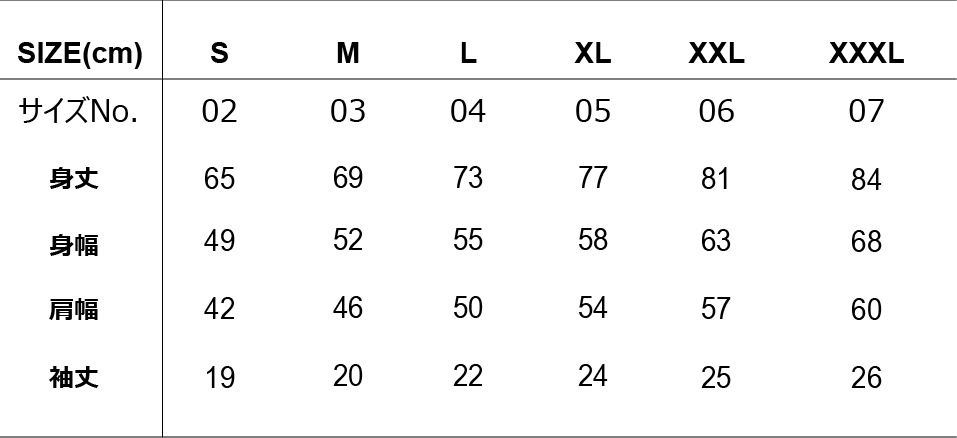
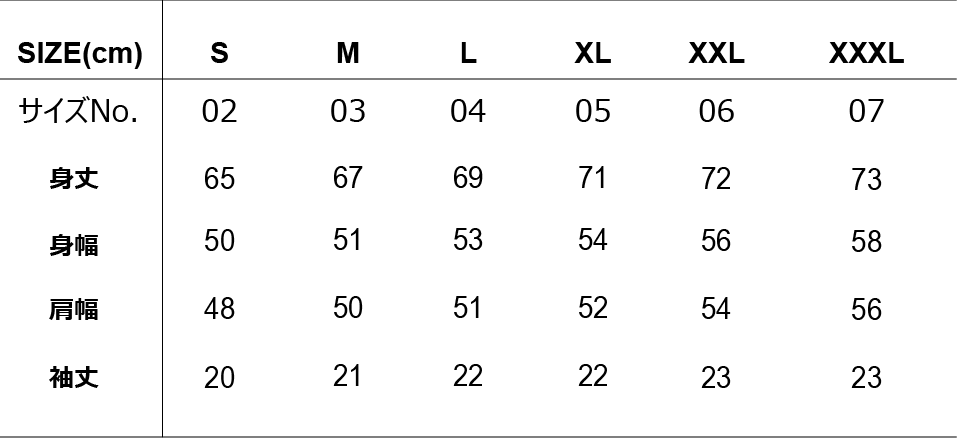
第9商品-20260925: A001(id8)置顶显示/编号按导航顺序/A002改名/2号格双链接

diff --git a/app/product-details/page.tsx b/app/product-details/page.tsx
@@ -29,7 +29,7 @@ const PRODUCT_DESCRIPTIONS: Record<number, string> = {
 ・上質なコットン100%：肌に優しく馴染む、柔らかく滑らかなプレミアムな肌触り。
 ・優れた通気性と快適性：長時間着用しても蒸れにくく、シーズンを問わずストレスフリーな着心地を提供します。
 ■ 生地感（THICKNESS & WEIGHT）
-・6.7oz（オンス）ヘビーウェイト：しっかりとした肉厚感のある生地を採用。
+・5.0oz（オンス）ヘビーウェイト：しっかりとした肉厚感のある生地を採用。
 ・高い耐久性と透け防止：1枚で着用しても透けにくく、度重なる洗濯でも型崩れしにくいタフな仕上がりです。
 ■ デザイン＆シルエット（DESIGN & SILHOUETTE）
 ・タイムレスなミニマルデザイン：テイストを選ばず、ストリート、カジュアル、きれいめまで幅広くコーディネート可能。
@@ -74,17 +74,17 @@ const PRODUCT_DESCRIPTIONS: Record<number, string> = {
 ※ご覧いただくモニター環境や光の加減により、掲載画像と実際の商品で色味が若干異なる場合がございます。
 `,
   2: `【コンセプト】
-イージーケアと上質な着心地を両立。
+極上の肌触りと、美しいシルエット。
 1枚でもインナーでも決まる、洗練された大人のロングスリーブTシャツ。
-コットンの柔らかさとポリエステルの機能性を兼ね備えたハイブリッド素材を採用。7.0ozのしっかりとした生地感で、秋口から春先までロングシーズン快適に着用できる万能な定番アイテムです。
+厳選された上質なコットンを100%使用。7.0ozのしっかりとしたヘビーウェイトな生地感で、秋口から春先までロングシーズン快適に着用できる万能な定番アイテムです。
 
 【DETAIL】
 ■ 素材（FABRIC）
-・T/C（ポリエステル60% / コットン40%）混紡素材：肌触りの良いコットンの風合いを残しながら、ポリエステルの耐久性と軽量性をプラス。
-・優れた吸汗速乾性とイージーケア：通気性が高く、長時間の着用でもサラリとした快適な着心地をキープ。洗濯後も乾きやすく、シワになりにくいイージーケア仕様です。
+・上質なコットン100%：厳選された高品質コットンを使用し、肌に優しく馴染む柔らかく滑らかなプレミアムな肌触りを実現。
+・優れた通気性と快適性：天然素材ならではの高い吸湿性と通気性で、長時間の着用でも蒸れにくく、シーズンを問わずストレスフリーな着心地を提供します。
 ■ 生地感（THICKNESS & WEIGHT）
-・7.0oz（オンス）ヘビーウェイト：長袖Tシャツに最適な、程よい肉厚感とハリのある生地を採用。
-・優れた耐久性と透け防止：1枚で着用しても透けにくく、度重なる洗濯でも襟元や袖口がヨレにくいタフな仕上がりです。
+・7.0oz（オンス）ヘビーウェイト：長袖Tシャツに最適な、程よい肉厚感とハリのある高密度生地を採用。
+・優れた耐久性と透け防止：1枚で着用しても透けにくく、度重なる着用や洗濯でも襟元や袖口がヨレにくいタフな仕上がりです。
 ■ デザイン＆シルエット（DESIGN & SILHOUETTE）
 ・ミニマルな洗練デザイン：タイムレスなデザインで、ストリート、カジュアル、きれいめスタイルのインナーまで幅広く対応。
 ・ジェンダーレスなリラックスフィット：肩や身幅にほどよいゆとりを持たせたトレンドシルエットで、男女問わずスマートに着用いただけます。
@@ -103,15 +103,15 @@ const PRODUCT_DESCRIPTIONS: Record<number, string> = {
   3: `【コンセプト】
 ブランド最高峰の品質と、計算し尽くされたオーバーシルエット。
 1枚でスタイルを格上げする、プレミアム・ヘビーウェイトTシャツ。
-当ラインナップの中で最高品質を誇る、こだわりを凝縮したフラッグシップモデル。8.1ozという圧巻の超ヘビーウェイト生地を採用しながらも、野暮ったさを一切感じさせない上品なハリ感と美しいドレープ（落ち感）を実現。圧倒的な存在感を放つ、大人のための最高峰の1着です。
+当ラインナップの中で最高品質を誇る、こだわりを凝縮したフラッグシップモデル。230g高密度ヘビーウェイトコットン生地を採用しながらも、野暮ったさを一切感じさせない上品なハリ感と美しいドレープ（落ち感）を実現。圧倒的な存在感を放つ、大人のための最高峰の1着です。
 
 【DETAIL】
 ■ 素材（PREMIUM FABRIC）
-・厳選 T/Cハイブリッド素材（ポリエステル60% / コットン40%）：コットンの肌触りの良さにポリエステルの機能性を融合。8.1ozの重厚感を感じさせない滑らかな肌触りと高級感のある風合いに仕上げました。
-・優れた速乾性とイージーケア：シワになりにくく、洗濯後の乾きも早いハイパフォーマンス仕様。通気性にも優れ、終日快適な着用感をキープします。
+・厳選された100%プレミアムコットン：厳選された高品質コットンを100%使用。天然素材ならではの滑らかで肌に吸い付くような上質な肌触りと、着込むほどに馴染む極上の風合いに仕上げました。
+・優れた通気性と快適性：高密度でありながら通気性に優れ、肌への刺激が少ないストレスフリーな仕様。シーズンを問わず終日快適な着用感をキープします。
 ■ 生地感（THICKNESS & WEIGHT）
-・8.1oz（オンス）最高峰超ヘビーウェイト：極限まで肉厚感を高めた8.1オンス生地。体のラインを拾わない美しい立ち姿をキープします。
-・完全透け防止＆抜群のタフネス：1枚での着用も安心の透け感ゼロ。度重なる着用や洗濯でも首元がヨレず、美しいシルエットが長く続きます。
+・230g/㎡ 最高峰ヘビーウェイト：極限まで密度を高めた230g/㎡の肉厚コットン生地。しっかりとしたハリとコシがあり、体のラインを拾わない美しい立ち姿をキープします。
+・完全透け防止＆抜群のタフネス：1枚での着用も安心の透け感ゼロ。度重なる着用や洗濯でも首元がヨレにくく、美しいシルエットが長く続きます。
 ■ デザイン＆シルエット（DESIGN & SILHOUETTE）
 ・洗練された絶妙なビッグシルエット：肩を大きく落としたドロップショルダーと身幅に贅沢なゆとりを持たせたカッティング。リラックス感がありながらも品のある仕上がりです。
 ・ジェンダーレスデザイン：ストリート、モード、カジュアルまで、男女問わず1枚でトレンド感のあるスタイリングが完成します。
@@ -237,13 +237,40 @@ const PRODUCT_DESCRIPTIONS: Record<number, string> = {
 ■ 注意事項
 ※ご覧いただくモニター環境や光の加減により、掲載画像と実際の商品で色味が若干異なる場合がございます。
 `,
+  8: `【コンセプト】
+王道を極めた、毎日着たくなる着心地。
+5.6ozの絶妙な生地感で、オールシーズン活躍する万能スタンダードTシャツ。
+厳選された上質なコットン100%を使用し、Tシャツの“黄金スペック”と呼ばれる5.6オンス生地を採用。厚すぎず薄すぎない絶妙なバランスで、1枚での着用はもちろん、シャツやアウターのインナーとしても美しいシルエットをキープする、ワードローブに欠かせない定番の1着です。
+
+【DETAIL】
+■ 素材（FABRIC）
+・上質なコットン100%：肌に優しく馴染む、柔らかく滑らかなプレミアムな肌触り。
+・優れた通気性と快適性：吸湿性・通気性に優れ、長時間の着用でもストレスフリーで快適な着心地を提供します。
+■ 生地感（THICKNESS & WEIGHT）
+・5.6oz（オンス）スタンダードウェイト：1枚着としてもインナーとしても重宝する、バランスの取れた絶妙な肉厚感。
+・型崩れしにくい高耐久仕様：適度なハリ感があり、度重なる着用や洗濯でも首元がヨレにくく、綺麗なフォルムを長く保ちます。
+■ デザイン＆シルエット（DESIGN & SILHOUETTE）
+・タイムレスな王道デザイン：トレンドや年代を問わず、ストリート、カジュアル、きれいめまであらゆるスタイルに対応。
+・ユニセックスデザイン：SからXXLまでの豊富なサイズ展開で、ジャストサイズでのスマートな着こなしから、ワンサイズ上げたリラックススタイルまでお好みのシルエットを選べます。
+■ カラーバリエーション（COLOR）
+スタイリングのベースとなる、最も汎用性の高い王道の2色展開。
+・ホワイト
+・ブラック
+
+【SIZE & INFORMATION】
+■ サイズ展開（SIZE）
+S / M / L / XL / XXL
+※ユニセックスでお使いいただけるベーシックなシルエットです。
+※商品寸法は手作業で採寸しているため、1〜2cm程度の個体差が生じる場合がございます。予めご了承ください。
+■ 注意事項
+※ご覧いただくモニター環境や光の加減により、掲載画像と実際の商品で色味が若干異なる場合がございます。`,
 }
 
 // 与 page.tsx 中 6 个商品分类对应的选项卡数据
 const PRODUCT_TABS: ProductTab[] = [
   {
     id: 0,
-    name: 'ベーシックTシャツ',
+    name: 'ベーシックTシャツA002',
     colors: ['ホワイト', 'ブラック', 'アプリコット', 'ピンク', 'グレー', 'ネイビー', 'ピンクグラデーション', 'ブルーグラデーション', 'グリーングラデーション'],
     imagesByColor: {
       ホワイト: ['/01duant/wc11.png', '/01duant/wc1.png', '/01duant/wc2.png', '/01duant/wc3.png'],
@@ -329,12 +356,25 @@ const PRODUCT_TABS: ProductTab[] = [
     },
     bottomImage: '/08bao2/youdi1.jpg',
   },
+  {
+    id: 8,
+    name: 'ベーシックTシャツA001',
+    colors: ['ホワイト', 'ブラック'],
+    imagesByColor: {
+      ホワイト: ['/09duant02/001/01/01.jpg', '/09duant02/001/01/02.jpg', '/09duant02/001/01/03.jpg', '/09duant02/001/01/04.jpg', '/09duant02/001/01/05.jpg', '/09duant02/001/01/06.jpg'],
+      ブラック: ['/09duant02/001/02/01.jpg', '/09duant02/001/02/02.jpg', '/09duant02/001/02/03.jpg', '/09duant02/001/02/04.jpg', '/09duant02/001/02/05.jpg', '/09duant02/001/02/06.jpg'],
+    },
+    bottomImage: '/09duant02/001/01/01.jpg',
+  },
 ]
+
+// 选项卡显示顺序：第9商品（id 8）排第一，其余按原编号
+const DISPLAY_ORDER = [8, 0, 1, 2, 3, 4, 5, 6, 7]
 
 function ProductDetailsContent() {
   const searchParams = useSearchParams()
   const tabParam = searchParams.get('tab')
-  const initialTab = tabParam !== null ? Math.min(Math.max(0, parseInt(tabParam, 10)), PRODUCT_TABS.length - 1) : 0
+  const initialTab = tabParam !== null ? Math.min(Math.max(0, parseInt(tabParam, 10)), PRODUCT_TABS.length - 1) : DISPLAY_ORDER[0]
   const router = useRouter()
 
   const [activeTab, setActiveTab] = useState(initialTab)
@@ -343,12 +383,12 @@ function ProductDetailsContent() {
   const [isDescriptionExpanded, setIsDescriptionExpanded] = useState(false)
 
   useEffect(() => {
-    const t = tabParam !== null ? Math.min(Math.max(0, parseInt(tabParam, 10)), PRODUCT_TABS.length - 1) : 0
+    const t = tabParam !== null ? Math.min(Math.max(0, parseInt(tabParam, 10)), PRODUCT_TABS.length - 1) : DISPLAY_ORDER[0]
     setActiveTab(t)
   }, [tabParam])
 
-  // 新版布局配置：各商品 001 目录、颜色数（01～NN 文件夹与色卡 inc/01～NN 对应）、尺码表
-  const NEW_LAYOUT: Record<number, { base: string; colorCount: number; chima: string }> = {
+  // 新版布局配置：各商品 001 目录、颜色数（01～NN 文件夹与色卡 inc/01～NN 对应）、尺码表、展示图扩展名
+  const NEW_LAYOUT: Record<number, { base: string; colorCount: number; chima: string; ext?: string }> = {
     0: { base: '/01duant/001', colorCount: 9, chima: '/01duant/001/chima.png' },
     1: { base: '/02shuixi/001', colorCount: 1, chima: '/02shuixi/001/chima.png' },
     2: { base: '/03changxiut/001', colorCount: 2, chima: '/03changxiut/001/chima.png' },
@@ -357,6 +397,7 @@ function ProductDetailsContent() {
     5: { base: '/06daimaoweiyi/001', colorCount: 2, chima: '/06daimaoweiyi/001/chima.png' },
     6: { base: '/07bao1/001', colorCount: 1, chima: '/07bao1/001/chima.jpg' },
     7: { base: '/08bao2/001', colorCount: 1, chima: '/08bao2/001/chima.jpg' },
+    8: { base: '/09duant02/001', colorCount: 2, chima: '/09duant02/001/chima.png', ext: 'jpg' },
   }
   const layoutCfg = NEW_LAYOUT[activeTab]
   const layoutColors = PRODUCT_TABS[activeTab].colors.slice(0, layoutCfg.colorCount)
@@ -364,7 +405,7 @@ function ProductDetailsContent() {
   const layoutFolder = String(layoutColorIdx + 1).padStart(2, '0')
   const layoutSizes = getCatalogProduct(activeTab).sizes
   const pad2 = (n: number) => String(n).padStart(2, '0')
-  const categoryLabel = activeTab <= 5 ? 'T-SHIRTS' : 'TOTE BAG'
+  const categoryLabel = activeTab === 6 || activeTab === 7 ? 'TOTE BAG' : 'T-SHIRTS'
 
   // 切换商品时，尺寸回到该商品的第一个尺码，颜色回到该商品新布局的第一个颜色
   useEffect(() => {
@@ -399,7 +440,9 @@ function ProductDetailsContent() {
               gap: '6px',
             }}
           >
-            {PRODUCT_TABS.map((tab) => (
+            {DISPLAY_ORDER.map((id) => {
+              const tab = PRODUCT_TABS[id]
+              return (
               <Link key={tab.id} href={`/product-details?tab=${tab.id}`} onClick={() => setActiveTab(tab.id)}>
                 <button
                   type="button"
@@ -416,7 +459,8 @@ function ProductDetailsContent() {
                   {tab.name}
                 </button>
               </Link>
-            ))}
+              )
+            })}
           </div>
         </div>
 
@@ -430,7 +474,7 @@ function ProductDetailsContent() {
                 {[1, 2, 3, 4, 5, 6].map((n) => (
                   <img
                     key={n}
-                    src={`${layoutCfg.base}/${layoutFolder}/0${n}.png`}
+                    src={`${layoutCfg.base}/${layoutFolder}/0${n}.${layoutCfg.ext ?? 'png'}`}
                     alt={`${product.name} ${selectedColor} ${n}`}
                     style={{ width: '100%', height: 'auto', display: 'block' }}
                   />
@@ -438,7 +482,7 @@ function ProductDetailsContent() {
               </div>
               {/* 右侧详情 */}
               <div style={{ flex: 1, minWidth: 0 }}>
-                <div style={{ fontSize: '14px', color: '#333' }}>{pad2(activeTab + 1)} / {pad2(PRODUCT_TABS.length)}</div>
+                <div style={{ fontSize: '14px', color: '#333' }}>{pad2(DISPLAY_ORDER.indexOf(activeTab) + 1)} / {pad2(PRODUCT_TABS.length)}</div>
                 <div style={{ height: '16px' }} />
                 <div style={{ fontSize: '12px', letterSpacing: '2px', color: '#666' }}>{categoryLabel}</div>
                 <div style={{ fontSize: '28px', fontWeight: 700, color: '#111', marginTop: '8px', marginBottom: '16px' }}>{product.name}</div>

diff --git a/app/page.tsx b/app/page.tsx
@@ -101,15 +101,19 @@ export default function Home() {
                 <div>
                   <div style={{ fontSize: '14px', color: '#333', marginBottom: '8px' }}>01</div>
                   <div style={{ height: '16px' }} />
-                  <div style={{ fontSize: '20px', fontWeight: 700, color: '#111', marginBottom: '8px' }}>ベーシックTシャツ</div>
+                  <div style={{ fontSize: '20px', fontWeight: 700, color: '#111', marginBottom: '8px' }}>ベーシックTシャツA002</div>
                   <div style={{ fontSize: '12px', color: '#333', lineHeight: 1.7 }}>
                     100％高品質コットン
                     <br />
                     柔らかく肌触りの良い仕上がりとなっています
                   </div>
                   <div style={{ height: '16px' }} />
+                  <Link href="/product-details?tab=8" style={{ display: 'inline-block', fontSize: '13px', color: '#111', borderBottom: '1px solid #111', paddingBottom: '2px', marginBottom: '8px' }}>
+                    A001商品をすべて見る →
+                  </Link>
+                  <br />
                   <Link href="/product-details?tab=0" style={{ fontSize: '13px', color: '#111', borderBottom: '1px solid #111', paddingBottom: '2px' }}>
-                    商品をすべて見る →
+                    A002商品をすべて見る →
                   </Link>
                 </div>
               </div>

diff --git a/lib/cartCatalog.ts b/lib/cartCatalog.ts
@@ -9,7 +9,7 @@ export type CartCatalogProduct = {
 export const CART_CATALOG: CartCatalogProduct[] = [
   {
     tabId: 0,
-    name: 'ベーシックTシャツ',
+    name: 'ベーシックTシャツA002',
     colors: ['ホワイト', 'ブラック', 'アプリコット', 'ピンク', 'グレー', 'ネイビー', 'ピンクグラデーション', 'ブルーグラデーション', 'グリーングラデーション'],
     imagesByColor: {
       ホワイト: ['/01duant/wc11.png', '/01duant/wc1.png', '/01duant/wc2.png', '/01duant/wc3.png'],
@@ -94,6 +94,16 @@ export const CART_CATALOG: CartCatalogProduct[] = [
       ナチュラル: ['/08bao2/mi2.png'],
     },
     sizes: ['30*40*10cm'],
+  },
+  {
+    tabId: 8,
+    name: 'ベーシックTシャツA001',
+    colors: ['ホワイト', 'ブラック'],
+    imagesByColor: {
+      ホワイト: ['/09duant02/001/01/01.jpg', '/09duant02/001/01/02.jpg', '/09duant02/001/01/03.jpg', '/09duant02/001/01/04.jpg', '/09duant02/001/01/05.jpg', '/09duant02/001/01/06.jpg'],
+      ブラック: ['/09duant02/001/02/01.jpg', '/09duant02/001/02/02.jpg', '/09duant02/001/02/03.jpg', '/09duant02/001/02/04.jpg', '/09duant02/001/02/05.jpg', '/09duant02/001/02/06.jpg'],
+    },
+    sizes: ['S', 'M', 'L', 'XL', 'XXL'],
   },
 ]
 

diff --git a/lib/printCatalog.ts b/lib/printCatalog.ts
@@ -72,6 +72,13 @@ export function getPrintBaseImages(tabId: number, color: string) {
     return fallback
   }
 
+  // 9) ベーシックTシャツA001 public/09duant02（白：正面w1/背面w2，黑：正面b1/背面b2）
+  if (tabId === 8) {
+    if (color === 'ホワイト') return { left: '/09duant02/w1.jpg', right: '/09duant02/w2.jpg' }
+    if (color === 'ブラック') return { left: '/09duant02/b1.jpg', right: '/09duant02/b2.jpg' }
+    return fallback
+  }
+
   return fallback
 }
 

diff --git a/prisma/seed.ts b/prisma/seed.ts
@@ -25,7 +25,7 @@ async function main() {
   // 创建示例商品
   const products = [
     {
-      name: 'ベーシックTシャツ',
+      name: 'ベーシックTシャツA002',
       description: '商品说明',
       imageUrl: '/images/1tsyatsu.jpg',
       sizes: JSON.stringify(['S', 'M', 'L', 'XL', 'XXL', 'XXXL']),
